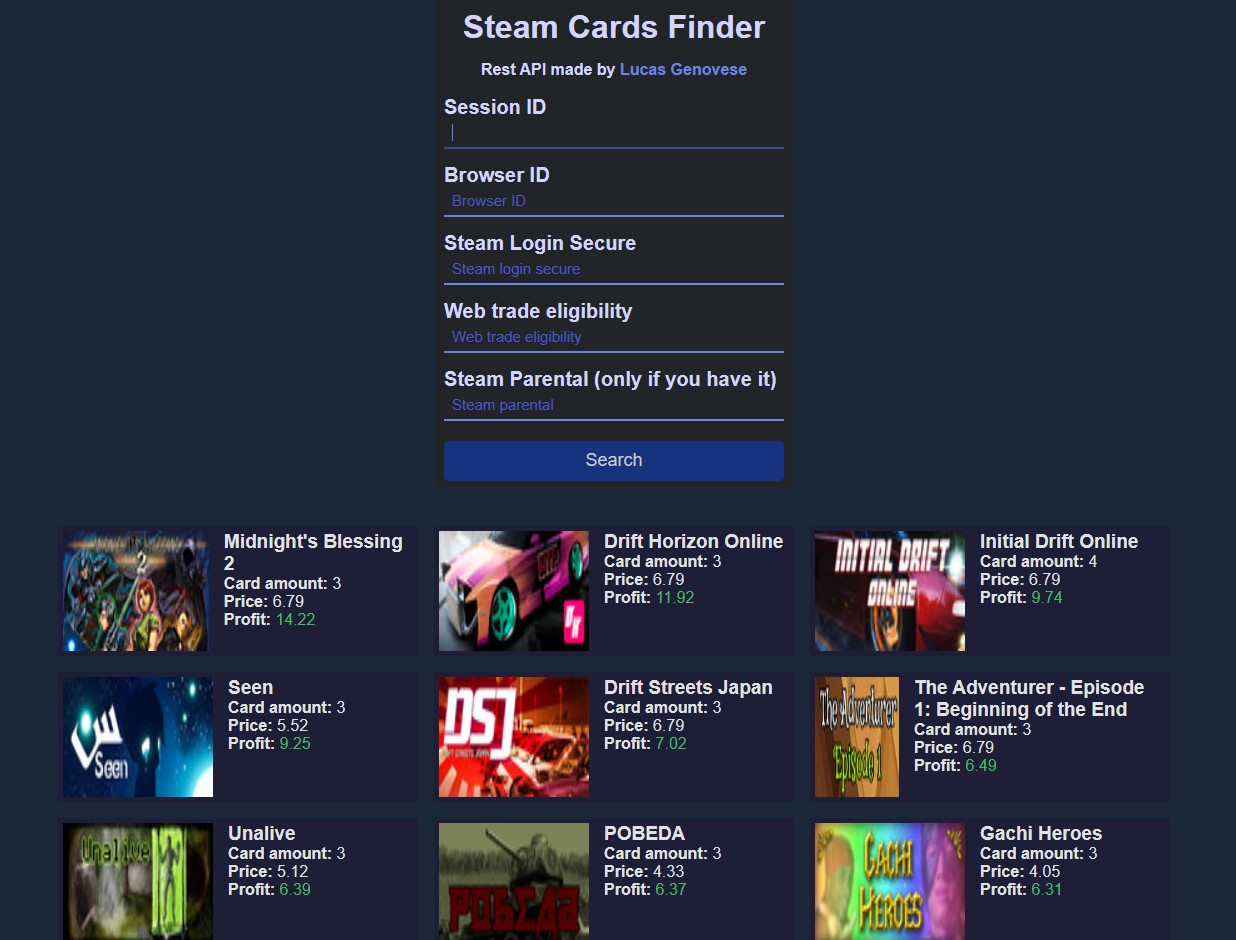
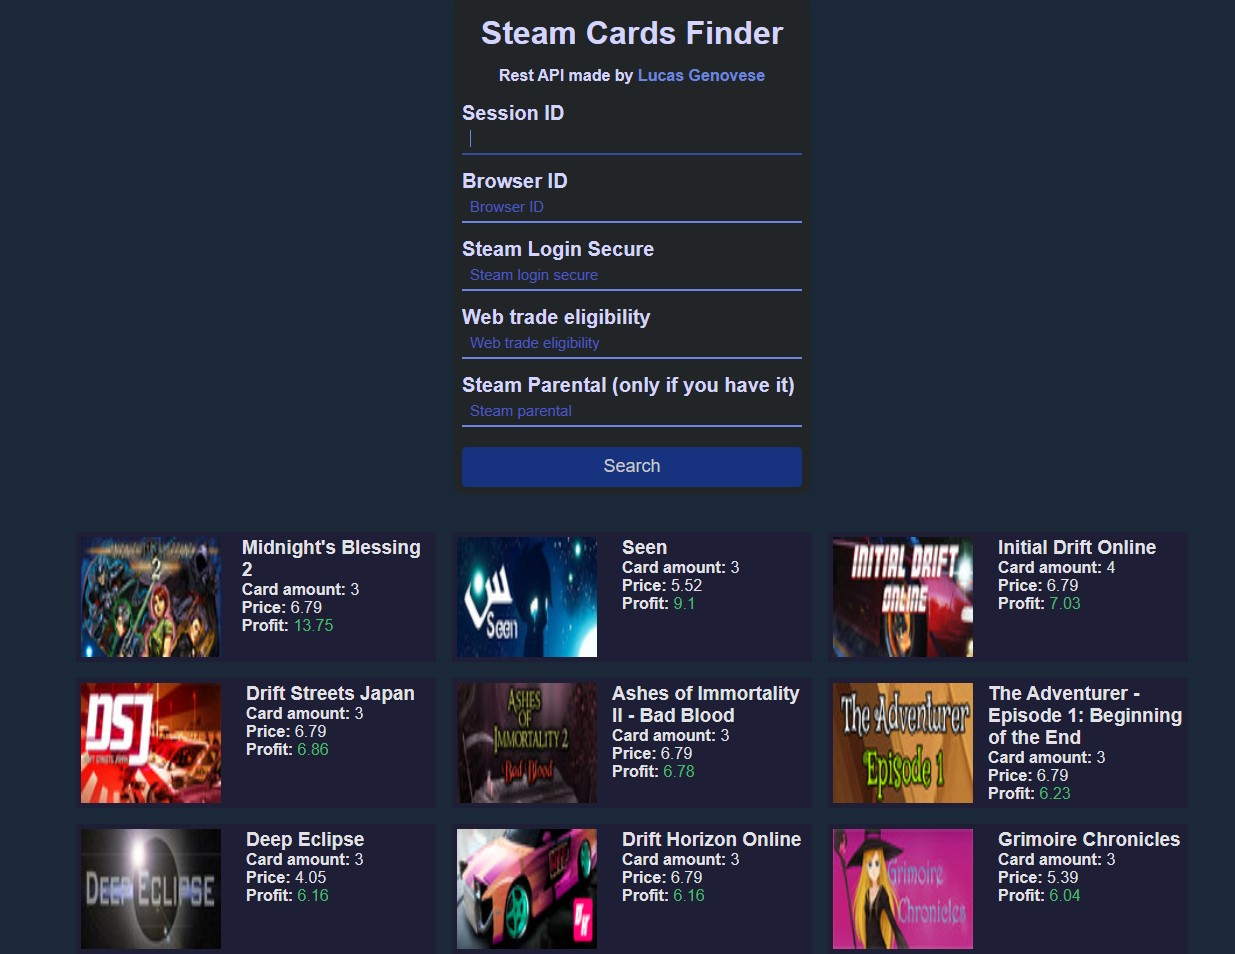
improved the images size and changed the preview img

diff --git a/src/App.css b/src/App.css
@@ -121,7 +121,7 @@ button:hover {
 }
 
 .image-container img {
-    width: 100% !important;
+    width: 140px !important;
     height: 100%;
 }
 
